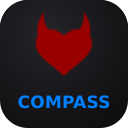
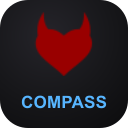
Release FL Tools Basic 0.0.7

diff --git a/FL-Tools-Basic.user.js b/FL-Tools-Basic.user.js
@@ -1,7 +1,7 @@
 // ==UserScript==
 // @name         FL Tools Basic
 // @namespace    https://github.com/Typical-Bits
-// @version      0.0.6
+// @version      0.0.7
 // @description  Simple everyday browsing tools for FetLife.
 // @author       TypicalBits
[1 lines of base64/hex data omitted]
@@ -11355,7 +11355,7 @@ Health: ${health?.state ?? "Unavailable"}`,
       installUrl,
       updateUrl,
       relationshipContext = false,
-      version = "0.0.6"
+      version = "0.0.7"
     }) {
       if (!coreUI?.createShell || !document?.createElement || typeof onSettings !== "function") {
         throw new TypeError("Basic UI dependencies are required");
@@ -13255,7 +13255,7 @@ Health: ${health?.state ?? "Unavailable"}`,
       "ui"
     ]),
     type: "edition",
-    version: "0.0.6"
+    version: "0.0.7"
   });
   var COMPONENTS = BASIC_MANIFEST.features.map((id) => ({
     id,
@@ -14347,7 +14347,7 @@ Health: ${health?.state ?? "Unavailable"}`,
   try {
     installCore(pageWindow, {
       document: pageWindow.document,
-      version: "0.0.6",
+      version: "0.0.7",
       window: pageWindow
     });
     void installBasic(pageWindow.FLTools, {
@@ -14356,14 +14356,14 @@ Health: ${health?.state ?? "Unavailable"}`,
           "Keeps every menu fully inside the window after launcher dragging or resizing.",
           "Preserves the launcher position when the menu closes."
         ],
-        version: "0.0.6"
+        version: "0.0.7"
       },
       document: pageWindow.document,
       iconUrl: "https://raw.githubusercontent.com/Typical-Bits/fl-tools-basic/main/assets/badges/basic-128.png",
       installUrl: "https://github.com/Typical-Bits/fl-tools-basic/raw/refs/heads/main/FL-Tools-Basic.user.js",
       releaseUrl: "https://github.com/Typical-Bits/fl-tools-basic/releases",
       updateUrl: "https://github.com/Typical-Bits/fl-tools-basic/raw/refs/heads/main/FL-Tools-Basic.user.js",
-      version: "0.0.6",
+      version: "0.0.7",
       window: pageWindow
     }).catch(report);
   } catch (error) {

diff --git a/live-test/fl-tools-basic-live.user.js b/live-test/fl-tools-basic-live.user.js
@@ -1,7 +1,7 @@
 // ==UserScript==
 // @name         FL Tools Basic
 // @namespace    https://github.com/Typical-Bits
-// @version      0.0.6
+// @version      0.0.7
 // @description  Simple everyday browsing tools for FetLife.
 // @author       TypicalBits
[1 lines of base64/hex data omitted]
@@ -11355,7 +11355,7 @@ Health: ${health?.state ?? "Unavailable"}`,
       installUrl,
       updateUrl,
       relationshipContext = false,
-      version = "0.0.6"
+      version = "0.0.7"
     }) {
       if (!coreUI?.createShell || !document?.createElement || typeof onSettings !== "function") {
         throw new TypeError("Basic UI dependencies are required");
@@ -13255,7 +13255,7 @@ Health: ${health?.state ?? "Unavailable"}`,
       "ui"
     ]),
     type: "edition",
-    version: "0.0.6"
+    version: "0.0.7"
   });
   var COMPONENTS = BASIC_MANIFEST.features.map((id) => ({
     id,
@@ -14347,7 +14347,7 @@ Health: ${health?.state ?? "Unavailable"}`,
   try {
     installCore(pageWindow, {
       document: pageWindow.document,
-      version: "0.0.6",
+      version: "0.0.7",
       window: pageWindow
     });
     void installBasic(pageWindow.FLTools, {
@@ -14356,14 +14356,14 @@ Health: ${health?.state ?? "Unavailable"}`,
           "Keeps every menu fully inside the window after launcher dragging or resizing.",
           "Preserves the launcher position when the menu closes."
         ],
-        version: "0.0.6"
+        version: "0.0.7"
       },
       document: pageWindow.document,
       iconUrl: "https://raw.githubusercontent.com/Typical-Bits/fl-tools-basic/main/assets/badges/basic-128.png",
       installUrl: "https://github.com/Typical-Bits/fl-tools-basic/raw/refs/heads/main/FL-Tools-Basic.user.js",
       releaseUrl: "https://github.com/Typical-Bits/fl-tools-basic/releases",
       updateUrl: "https://github.com/Typical-Bits/fl-tools-basic/raw/refs/heads/main/FL-Tools-Basic.user.js",
-      version: "0.0.6",
+      version: "0.0.7",
       window: pageWindow
     }).catch(report);
   } catch (error) {

diff --git a/scripts/userscript-entry.js b/scripts/userscript-entry.js
@@ -17,7 +17,7 @@ const report = (error) => {
 try {
   installCore(pageWindow, {
     document: pageWindow.document,
-    version: '0.0.6',
+    version: '0.0.7',
     window: pageWindow,
   });
   void installBasic(pageWindow.FLTools, {
@@ -26,7 +26,7 @@ try {
         'Keeps every menu fully inside the window after launcher dragging or resizing.',
         'Preserves the launcher position when the menu closes.',
       ],
-      version: '0.0.6',
+      version: '0.0.7',
     },
     document: pageWindow.document,
     iconUrl:
@@ -36,7 +36,7 @@ try {
     releaseUrl: 'https://github.com/Typical-Bits/fl-tools-basic/releases',
     updateUrl:
       'https://github.com/Typical-Bits/fl-tools-basic/raw/refs/heads/main/FL-Tools-Basic.user.js',
-    version: '0.0.6',
+    version: '0.0.7',
     window: pageWindow,
   }).catch(report);
 } catch (error) {

diff --git a/test/assets.test.js b/test/assets.test.js
@@ -5,7 +5,11 @@ import test from 'node:test';
 
 const assets = Object.freeze({
   '../assets/badges/compass.svg':
[2 lines of base64/hex data omitted]
+  '../assets/badges/compass-64.png':
[1 lines of base64/hex data omitted]
+  '../assets/badges/compass-128.png':
[2 lines of base64/hex data omitted]
   '../assets/badges/basic-64.png':
[1 lines of base64/hex data omitted]

diff --git a/test/userscript.test.js b/test/userscript.test.js
@@ -25,7 +25,7 @@ test('Basic userscript is self-contained and installs shared Core', () => {
   assert.equal(compatibilityCopy, userscript);
   assert.match(userscript, /@name\s+FL Tools Basic$/m);
   assert.doesNotMatch(userscript, /Live Test/);
-  assert.match(userscript, /@version\s+0\.0\.6$/m);
+  assert.match(userscript, /@version\s+0\.0\.7$/m);
   assert.match(userscript, /@match\s+\*:\/\/fetlife\.com\/\*/);
   assert.match(userscript, /@match\s+\*:\/\/\*\.fetlife\.com\/\*/);
   assert.doesNotMatch(userscript, /@require/);

diff --git a/src/basic-ui.js b/src/basic-ui.js
@@ -233,7 +233,7 @@ export class BasicUI {
     installUrl,
     updateUrl,
     relationshipContext = false,
-    version = '0.0.6',
+    version = '0.0.7',
   }) {
     if (!coreUI?.createShell || !document?.createElement || typeof onSettings !== 'function') {
       throw new TypeError('Basic UI dependencies are required');

diff --git a/src/basic-product.js b/src/basic-product.js
@@ -56,7 +56,7 @@ export const BASIC_MANIFEST = Object.freeze({
     'ui',
   ]),
   type: 'edition',
-  version: '0.0.6',
+  version: '0.0.7',
 });
 
 const COMPONENTS = BASIC_MANIFEST.features.map((id) => ({

diff --git a/README.md b/README.md
@@ -21,10 +21,10 @@
 ## Install
 
 <p>
-  <a href="https://raw.githubusercontent.com/Typical-Bits/fl-tools-basic/main/FL-Tools-Basic.user.js?v=0.0.6">
+  <a href="https://raw.githubusercontent.com/Typical-Bits/fl-tools-basic/main/FL-Tools-Basic.user.js?v=0.0.7">
     <img alt="Install FL Tools Basic" src="https://img.shields.io/badge/Install-FL%20Tools%20Basic-b91c1c?style=flat-square">
   </a>
-  <img alt="Version 0.0.6" src="https://img.shields.io/badge/version-0.0.6-22C55E?style=flat-square">
+  <img alt="Version 0.0.7" src="https://img.shields.io/badge/version-0.0.7-22C55E?style=flat-square">
   <a href="https://github.com/Typical-Bits/fl-tools-basic/releases">
     <img alt="GitHub Downloads" src="https://img.shields.io/github/downloads/Typical-Bits/fl-tools-basic/total?style=flat-square&label=Downloads">
   </a>

diff --git a/CHANGELOG.md b/CHANGELOG.md
@@ -2,6 +2,10 @@
 
 ## Unreleased
 
+## 0.0.7
+
+- Brighten the shared Compass launcher and userscript-manager icons.
+
 ## 0.0.6
 
 - Keep the menu fully inside the viewport after launcher dragging and window resizing.
